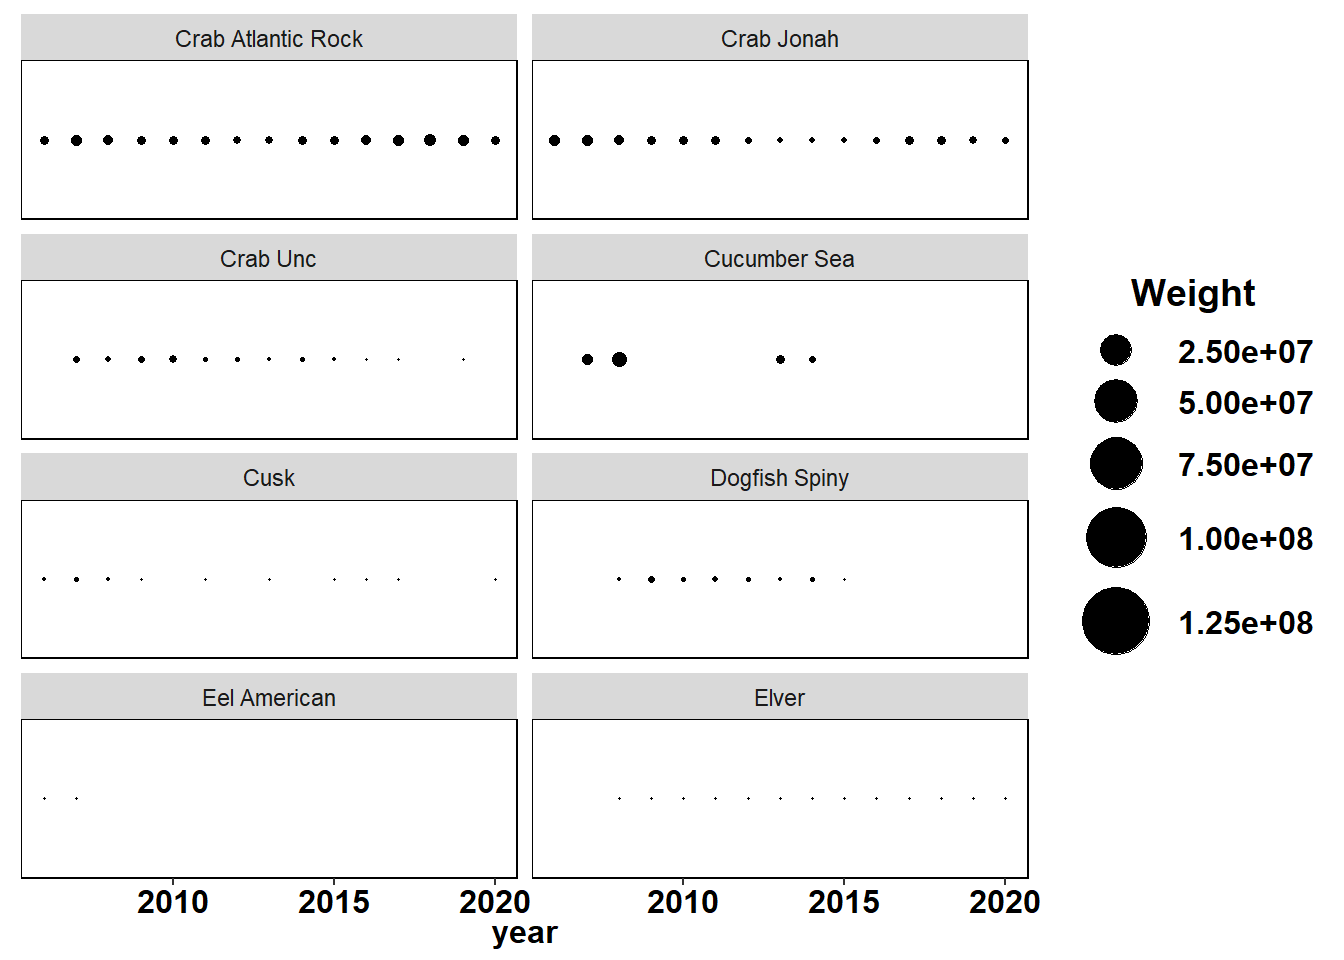
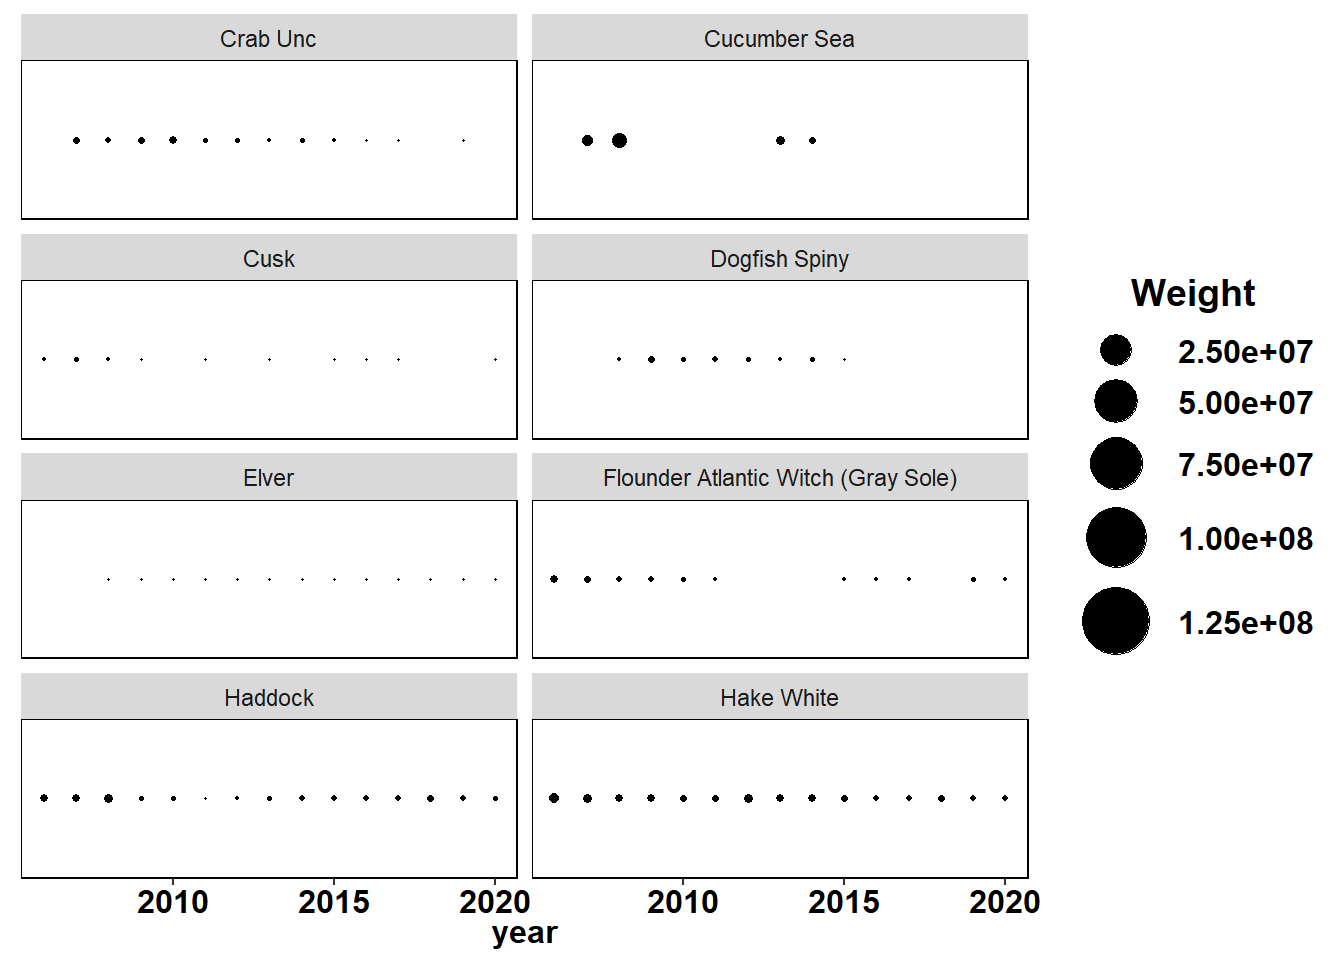
- table of landings

diff --git a/fishery_landings.html b/fishery_landings.html
@@ -569,6 +569,11 @@ a {
 <h2>Maine DMR landings by county data</h2>
 <ul>
 <li>2006-2020 specified by county</li>
+<li>Can run into confidentiality issues when grouped by county/year/species</li>
+<li>Confidential data is grouped into “Other Maine” or “Other Species” for 2006-2007</li>
+<li>Maine DMR landings portal (2008-2020) says confidential landings also uses “Other Maine/County”, but data pulled from portal has “Not specified”, “UK”, “Unidentified Catch”. Unclear why or if this is different</li>
+<li>446 confidential county records ~28%</li>
+<li>31 confidential species records ~ 2%</li>
 </ul>
 <br>
 <div data-pagedtable="false">
@@ -622,16 +627,16 @@ species_filter1&lt;-filter(species, species != &quot;&quot;)%&gt;%
   filter(species != &quot;Seaweed Unc&quot;)%&gt;%
   filter(species != &quot;Unidentified Catch&quot;)
 
-for(i in 1:7){
+# for(i in 1:7){
+# 
+# print(ggplot()+
+#   geom_point(data=species_filter1, aes(x=year, y=1, size=total_weight))+
+#   theme(axis.text.y = element_blank(), axis.title.y = element_blank(), axis.ticks.y=element_blank())+
+#   scale_size(range = c(.1,12), name=&quot;Weight&quot;)+
+#   facet_wrap_paginate(~species, ncol=2, nrow=4, page=i))
+# }
 
-print(ggplot()+
-  geom_point(data=species_filter1, aes(x=year, y=1, size=total_weight))+
-  theme(axis.text.y = element_blank(), axis.title.y = element_blank(), axis.ticks.y=element_blank())+
-  scale_size(range = c(.1,12), name=&quot;Weight&quot;)+
-  facet_wrap_paginate(~species, ncol=2, nrow=4, page=i))
-}</code></pre>
-<p><img src="fishery_landings_files/figure-html/unnamed-chunk-6-1.png" width="672" /><img src="fishery_landings_files/figure-html/unnamed-chunk-6-2.png" width="672" /><img src="fishery_landings_files/figure-html/unnamed-chunk-6-3.png" width="672" /><img src="fishery_landings_files/figure-html/unnamed-chunk-6-4.png" width="672" /><img src="fishery_landings_files/figure-html/unnamed-chunk-6-5.png" width="672" /><img src="fishery_landings_files/figure-html/unnamed-chunk-6-6.png" width="672" /><img src="fishery_landings_files/figure-html/unnamed-chunk-6-7.png" width="672" /></p>
-<pre class="r"><code>species_filter2&lt;-species_filter1%&gt;%
+species_filter2&lt;-species_filter1%&gt;%
   filter(species != &quot;Bluefish&quot;)%&gt;%
   filter(species != &quot;Clam Surf / Hen&quot;)%&gt;%
   filter(species != &quot;Cucmber Sea&quot;)%&gt;%
@@ -658,7 +663,7 @@ print(ggplot()+
   scale_size(range = c(.1,12), name=&quot;Weight&quot;)+
   facet_wrap_paginate(~species, ncol=2, nrow=4, page=i))
 }</code></pre>
-<p><img src="fishery_landings_files/figure-html/unnamed-chunk-6-8.png" width="672" /><img src="fishery_landings_files/figure-html/unnamed-chunk-6-9.png" width="672" /><img src="fishery_landings_files/figure-html/unnamed-chunk-6-10.png" width="672" /><img src="fishery_landings_files/figure-html/unnamed-chunk-6-11.png" width="672" /><img src="fishery_landings_files/figure-html/unnamed-chunk-6-12.png" width="672" /></p>
+<p><img src="fishery_landings_files/figure-html/unnamed-chunk-6-1.png" width="672" /><img src="fishery_landings_files/figure-html/unnamed-chunk-6-2.png" width="672" /><img src="fishery_landings_files/figure-html/unnamed-chunk-6-3.png" width="672" /><img src="fishery_landings_files/figure-html/unnamed-chunk-6-4.png" width="672" /><img src="fishery_landings_files/figure-html/unnamed-chunk-6-5.png" width="672" /></p>
 <p><br></p>
 </div>
 <div id="top-10-species" class="section level4">
@@ -667,12 +672,12 @@ print(ggplot()+
 </div>
 </div>
 </div>
-<div id="maine-dmr-landings-full-data" class="section level2">
-<h2>Maine DMR landings full data</h2>
+<div id="maine-dmr-landings-historic-data" class="section level2">
+<h2>Maine DMR landings historic data</h2>
 <ul>
 <li>1950-2019 not grouped by county</li>
+<li>Yearly totals for select species included</li>
 <li>Are trends different when county confidentiality is not an issue?</li>
-<li>Seems like less species accounted for in historical data?</li>
 </ul>
 <br>
 <div data-pagedtable="false">
@@ -861,7 +866,11 @@ print(ggplot()+
 ## * Found: 28 
 ## * Not Found: 0</code></pre>
 <p><img src="fishery_landings_files/figure-html/unnamed-chunk-20-1.png" width="672" /></p>
-<p>Combo plot #### County specified data <img src="fishery_landings_files/figure-html/unnamed-chunk-21-1.png" width="672" /><img src="fishery_landings_files/figure-html/unnamed-chunk-21-2.png" width="672" /></p>
+<p>Combo plot</p>
+</div>
+<div id="county-specified-data-3" class="section level4">
+<h4>County specified data</h4>
+<p><img src="fishery_landings_files/figure-html/unnamed-chunk-21-1.png" width="672" /><img src="fishery_landings_files/figure-html/unnamed-chunk-21-2.png" width="672" /></p>
 </div>
 <div id="full-data-3" class="section level4">
 <h4>Full data</h4>
@@ -953,7 +962,7 @@ print(ggplot()+
 </div>
 <div id="functional-groups" class="section level2">
 <h2>Functional Groups</h2>
-<div id="county-specified-data-3" class="section level3">
+<div id="county-specified-data-4" class="section level3">
 <h3>County specified data</h3>
 <p><img src="fishery_landings_files/figure-html/unnamed-chunk-31-1.png" width="672" /><img src="fishery_landings_files/figure-html/unnamed-chunk-31-2.png" width="672" /></p>
 <div id="benthivore" class="section level4">
@@ -979,21 +988,6 @@ print(ggplot()+
 </div>
 <div id="full-data-4" class="section level3">
 <h3>Full data</h3>
-<pre><code>## 
-##                     bloodworms                      clam soft 
-##                             56                             70 
-##                       crab unc                          elver 
-##                             70                             26 
-##                        oysters periwinkles atlantic (cockles) 
-##                             39                             70 
-##                       rockweed                salmon atlantic 
-##                             19                             39 
-##                      sandworms                    seaweed unc 
-##                             70                             48 
-##                  shark dogfish                         skates 
-##                             36                             34 
-##                     yellow eel 
-##                             52</code></pre>
 <p><img src="fishery_landings_files/figure-html/unnamed-chunk-37-1.png" width="672" /><img src="fishery_landings_files/figure-html/unnamed-chunk-37-2.png" width="672" /><img src="fishery_landings_files/figure-html/unnamed-chunk-37-3.png" width="672" /></p>
 <div id="benthivore-1" class="section level4">
 <h4>Benthivore</h4>
